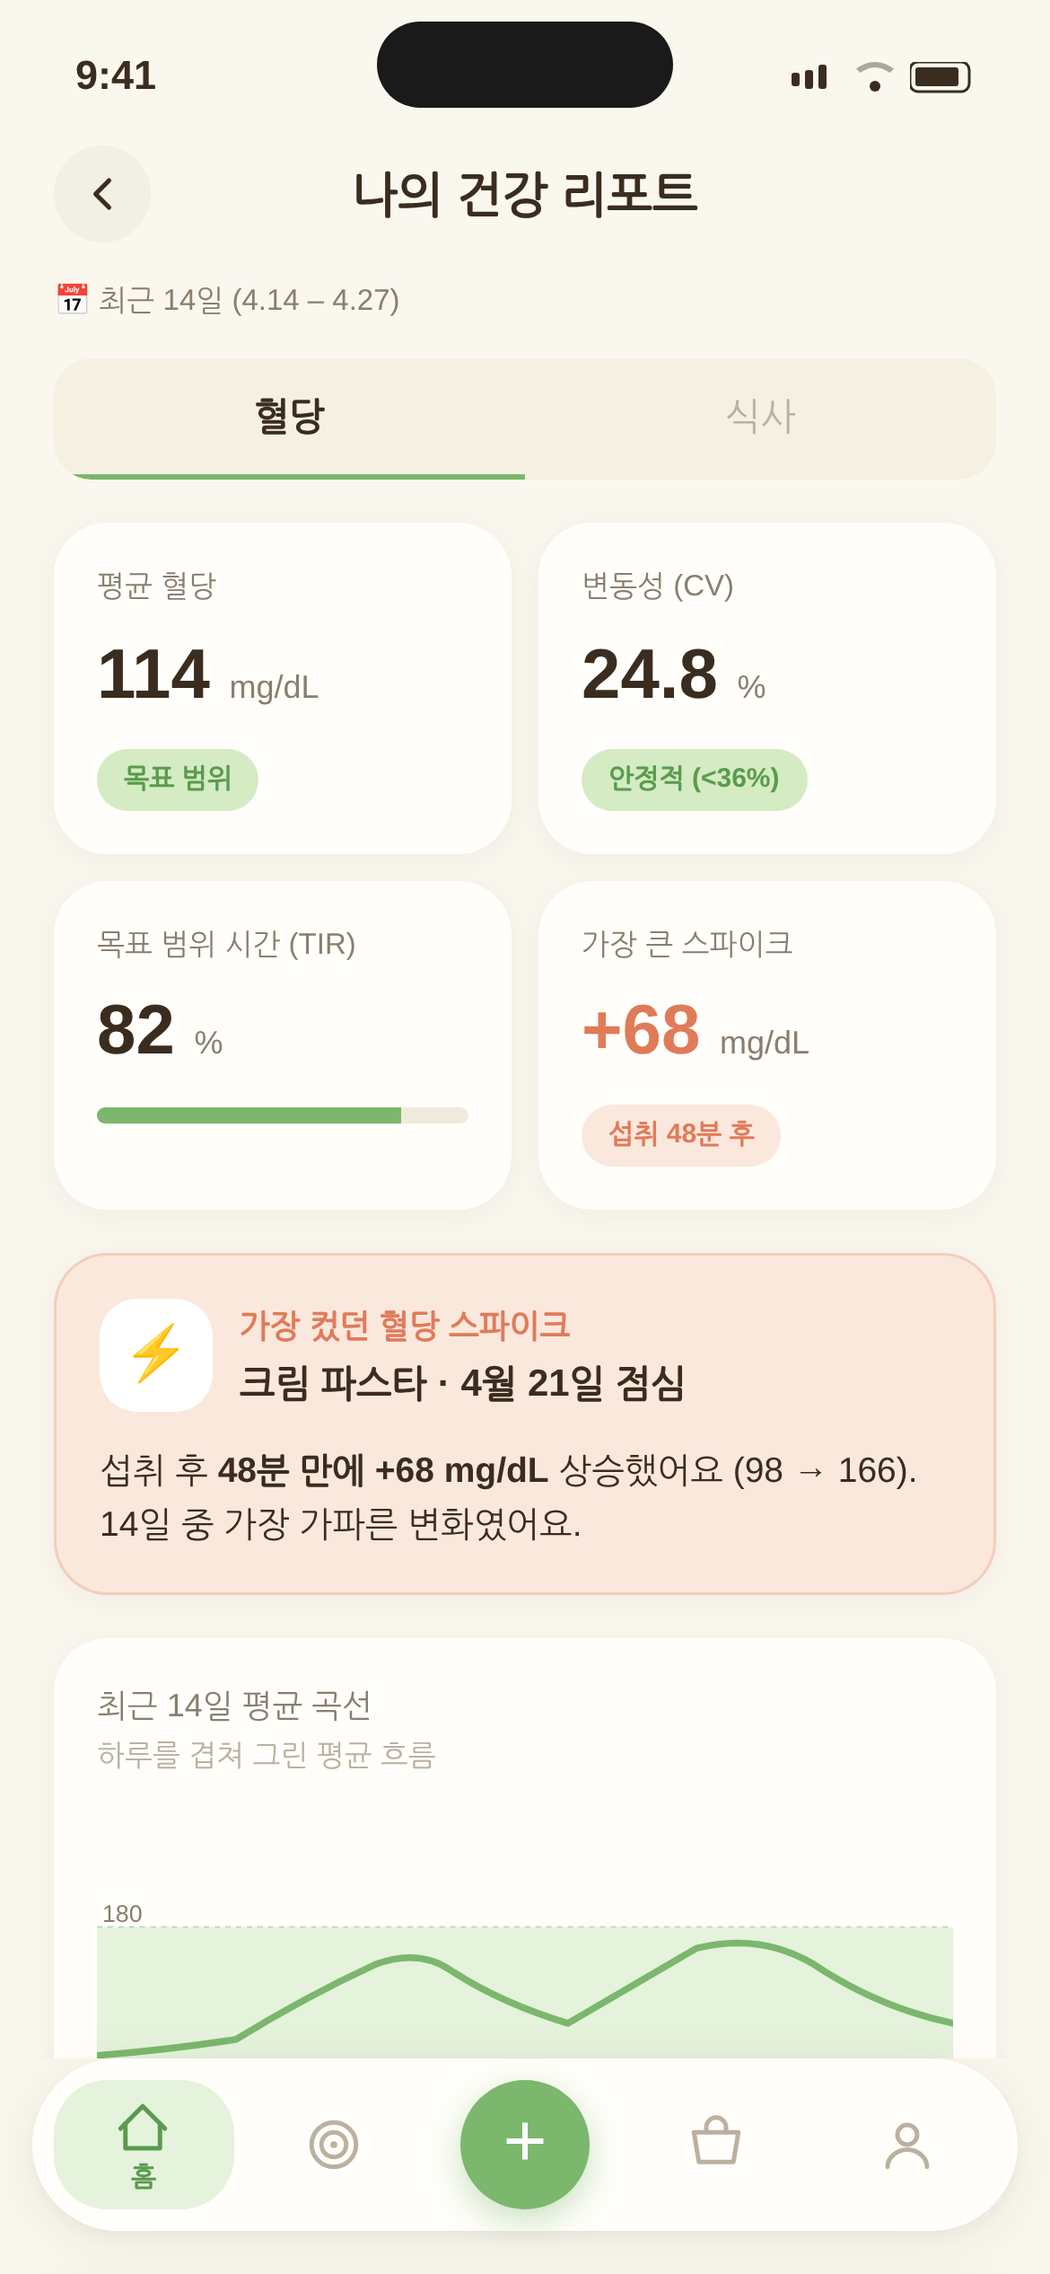
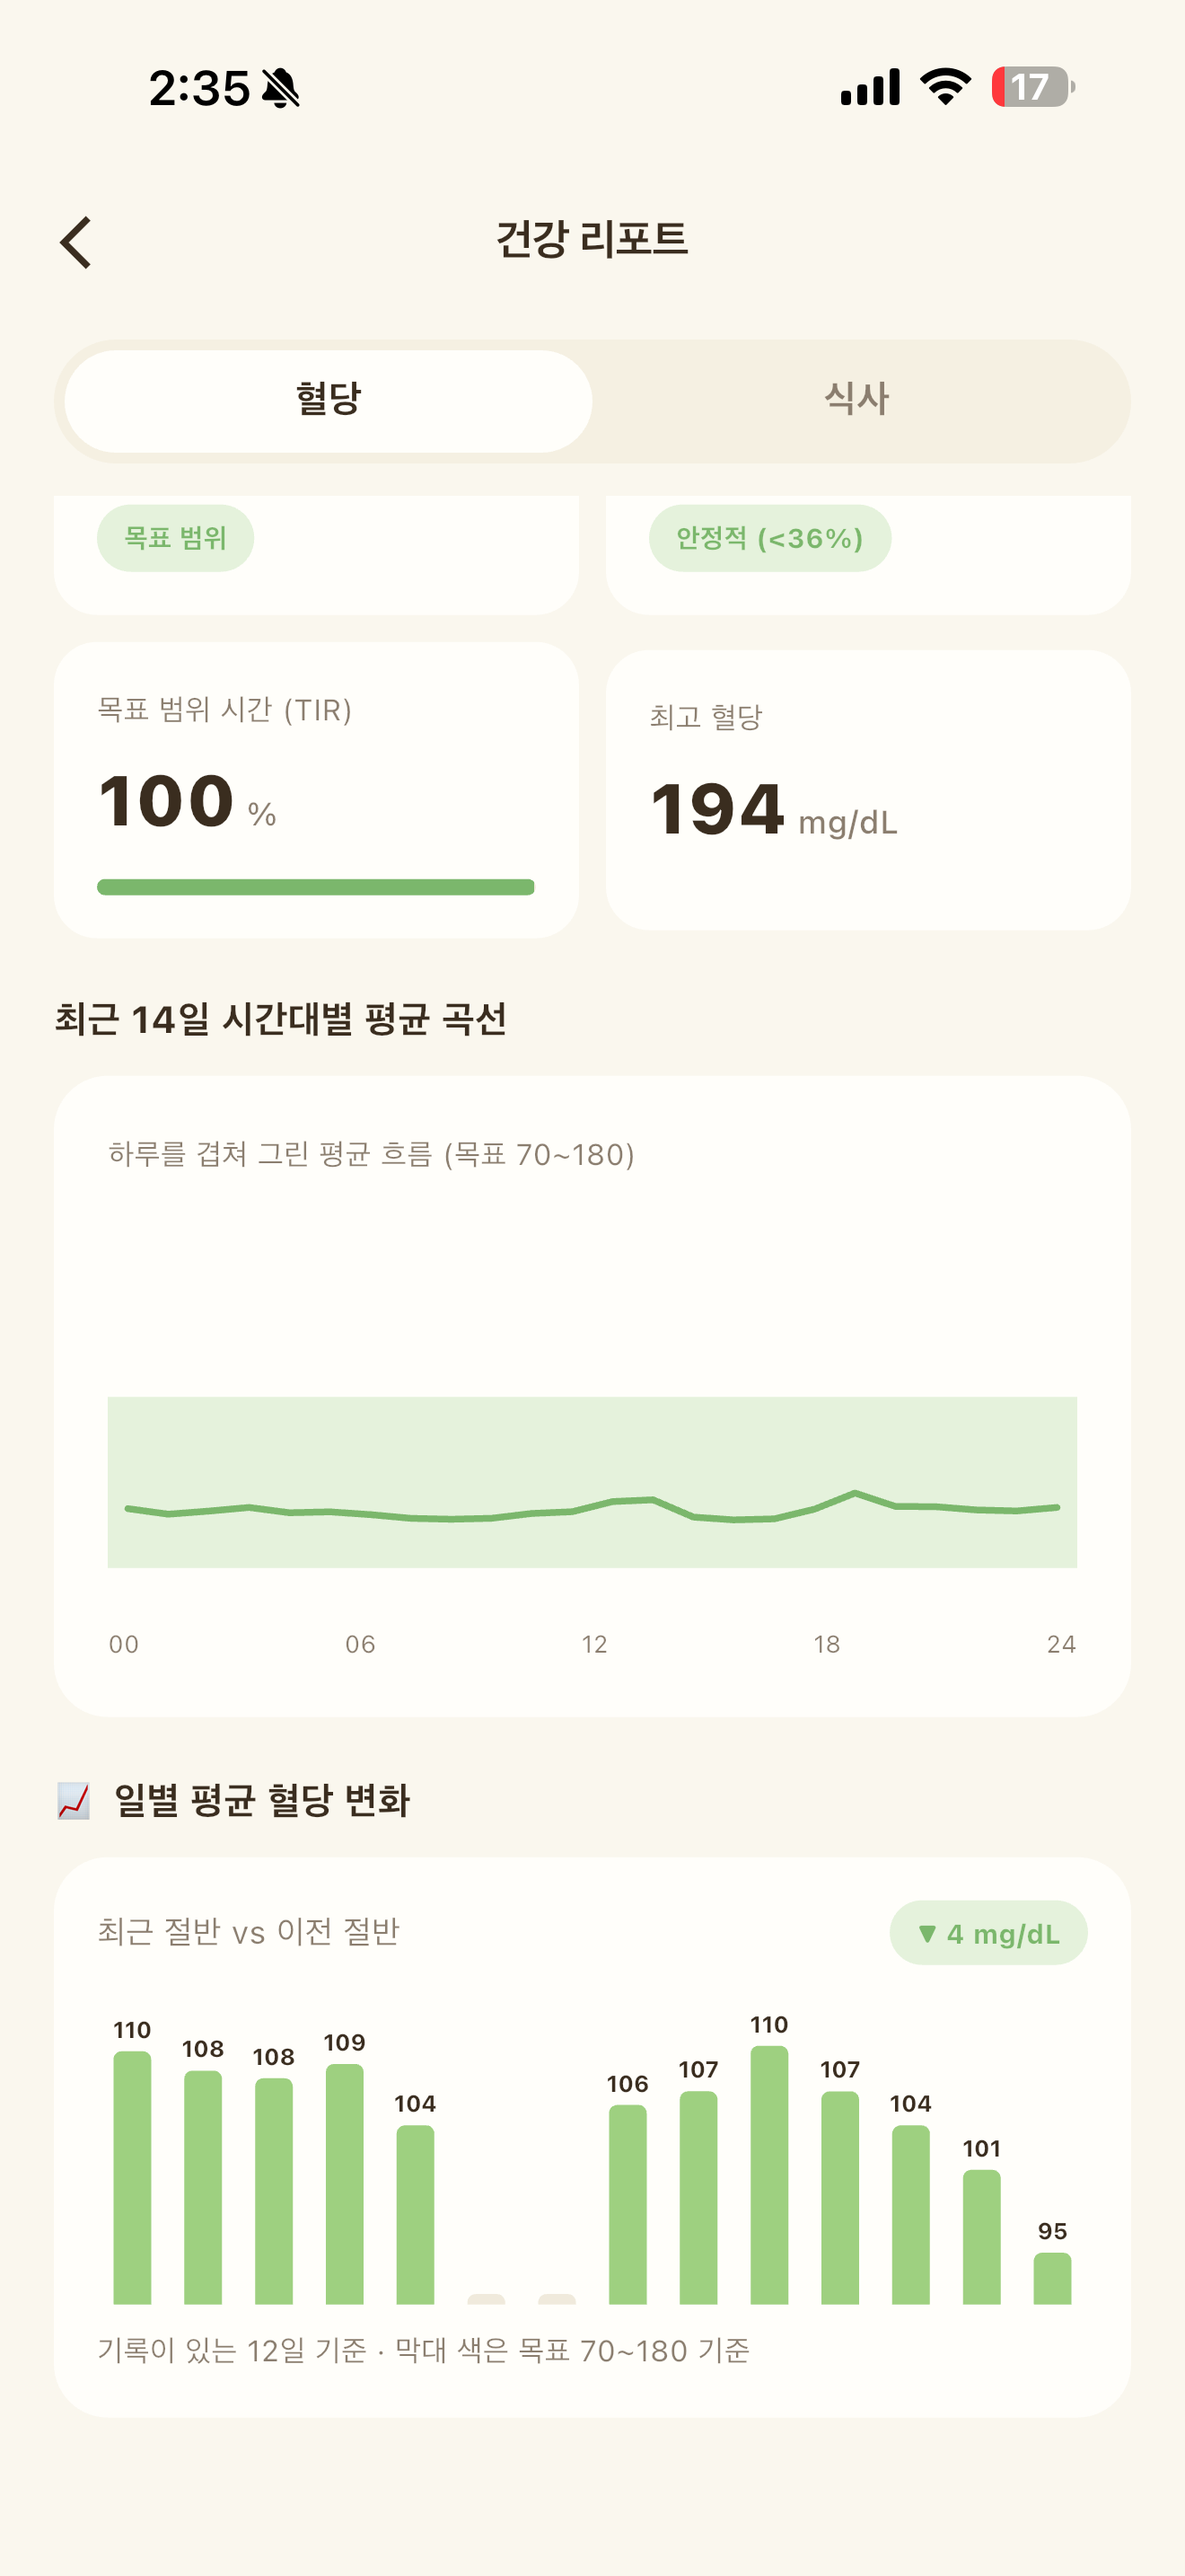
건강 리포트 스크린샷 최신본 교체 + 하루 기록 화면 추가
- report-glucose / report-meal 을 최신 앱 화면으로 교체
  (구버전: 평균 114 · 크림 파스타 → 현재: TIR 100% · 최고 194)
- 하루 기록 화면(daily-log) 신규 추가 — 혈당 곡선 · 걸음 · 물 · 기록 내역
  기능 페이지에 딥다이브 한 행 추가 (총 7개), 이후 섹션 번호 조정
- 교체된 화면에 맞춰 대체 텍스트 갱신

diff --git a/src/lib/assets.ts b/src/lib/assets.ts
@@ -223,6 +223,7 @@ import screenReportGlucose from '../assets/screens/report-glucose.png';
 import screenReportMeal from '../assets/screens/report-meal.png';
 import screenReportMealDetail from '../assets/screens/report-meal-detail.png';
 import screenGlucoseDetail from '../assets/screens/glucose-detail.png';
+import screenDailyLog from '../assets/screens/daily-log.png';
 import screenSensorSetup from '../assets/screens/sensor-setup.png';
 import screenOnboarding from '../assets/screens/onboarding.png';
 
@@ -240,6 +241,7 @@ export const screens = {
   reportMeal: screenReportMeal, // 14일 식사 리포트
   reportMealDetail: screenReportMealDetail, // 끼니별 상승폭 상세
   glucoseDetail: screenGlucoseDetail, // 하루 혈당 곡선 상세
+  dailyLog: screenDailyLog, // 하루 기록 (혈당 곡선 · 걸음 · 물 · 기록 내역)
   sensorSetup: screenSensorSetup, // 센서 연동 안내
   onboarding: screenOnboarding, // 온보딩
 };
